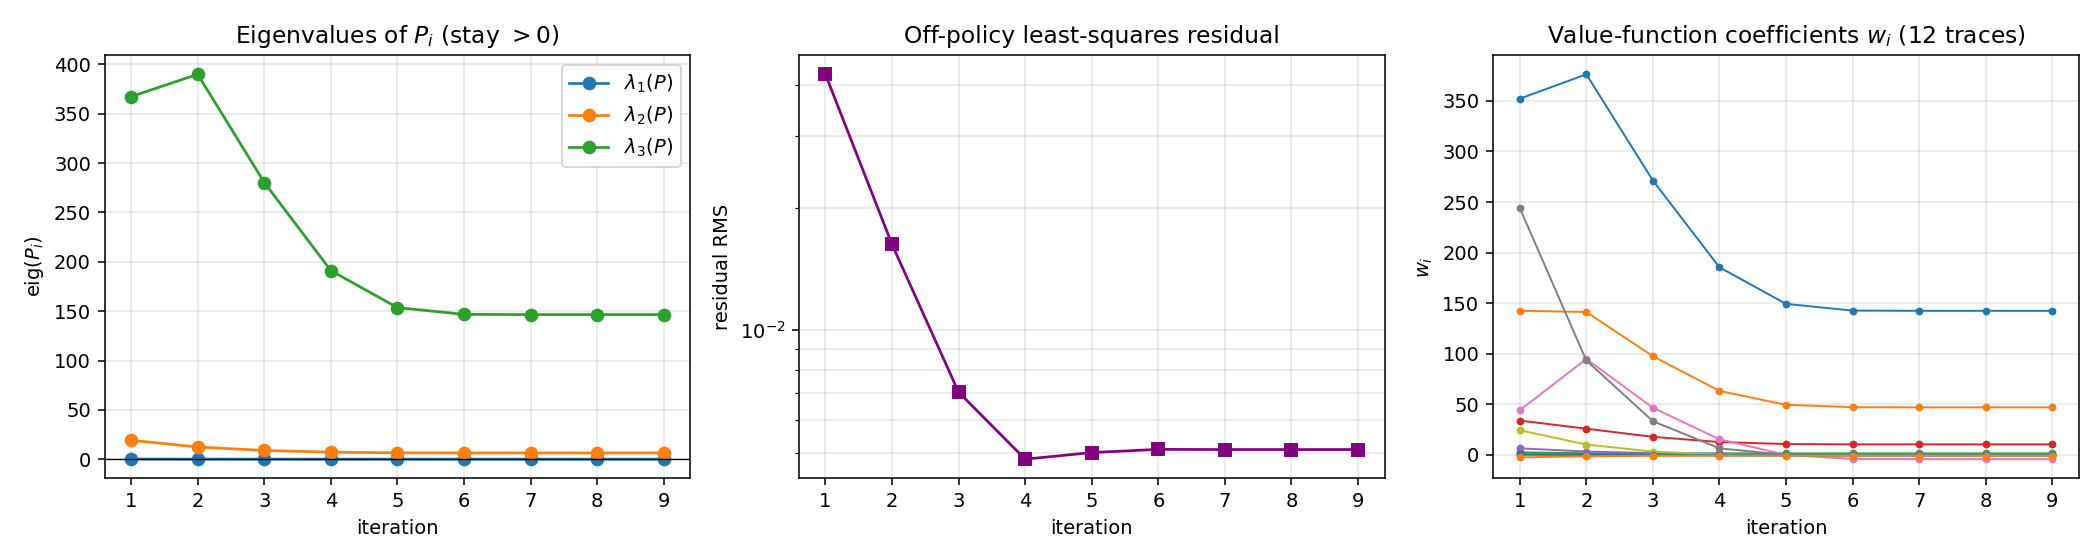
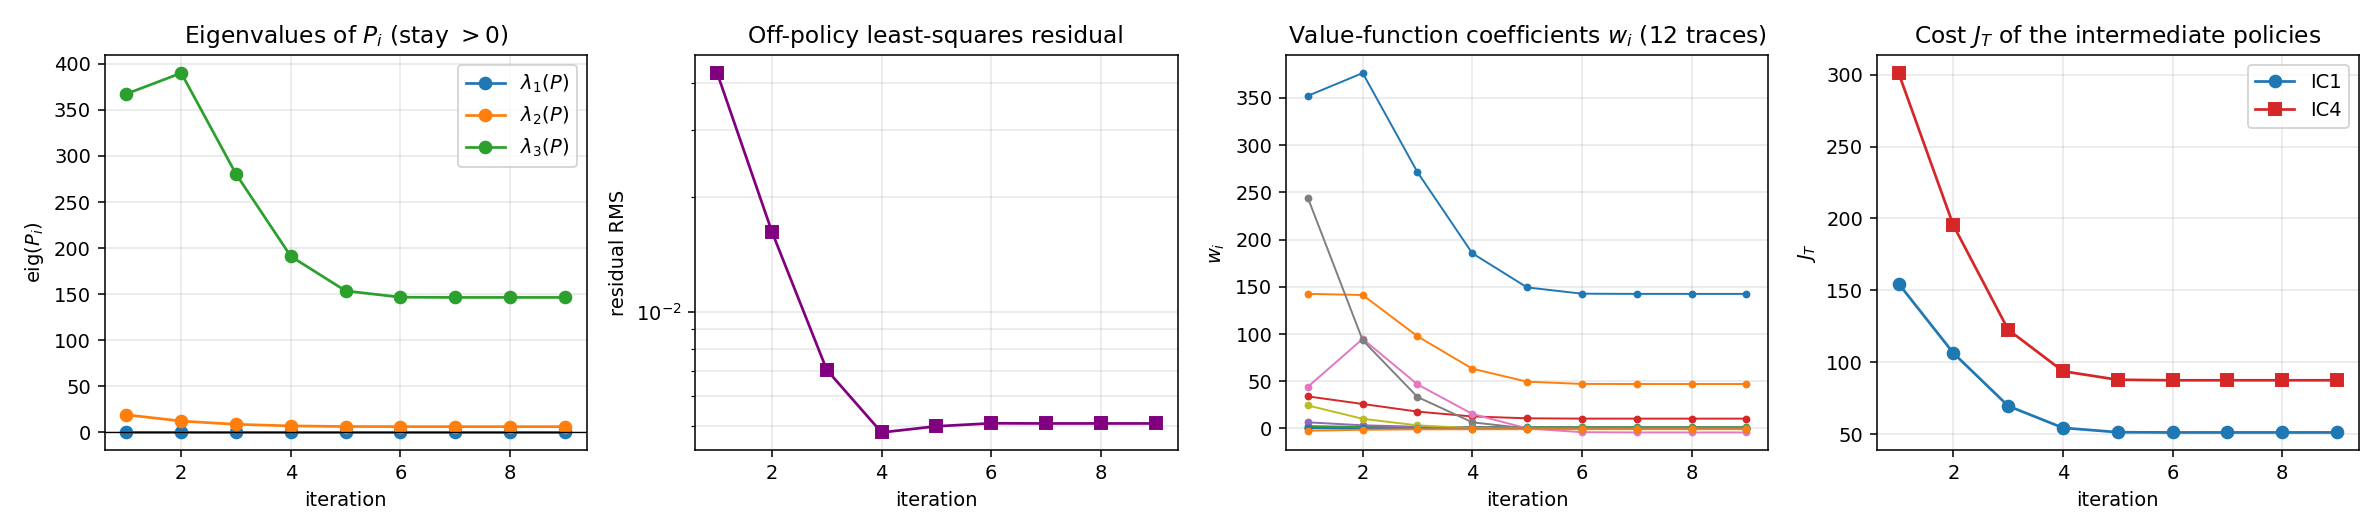
Mock-grader review fixes: eps_bar quantified, J_T-per-iteration panel, consistency and wording corrections; report 35 pp

diff --git a/Py_Code/adp_offpolicy.py b/Py_Code/adp_offpolicy.py
@@ -128,6 +128,9 @@ def policy_iteration(X, U, dt, verbose=True):
         # regressor A_j and target b_j for this iteration (reuse same data)
         A = dPhi - win_trapz(Z * (U - u_cur)[:, None])          # (n_win, N_W)
         b = -win_trapz(xQx + R * u_cur ** 2)                    # (n_win,)
+        if k == 0 and verbose:
+            print(f"  LS regressor: {A.shape[0]}x{A.shape[1]}, rank {np.linalg.matrix_rank(A)}, "
+                  f"cond {np.linalg.cond(A):.2e}")
         w_new, *_ = np.linalg.lstsq(A, b, rcond=None)
         res = np.linalg.norm(A @ w_new - b) / np.sqrt(n_win)
         delta = np.linalg.norm(w_new - w)
@@ -203,11 +206,14 @@ if __name__ == "__main__":
     ax.set_xlim(0, min(6, t[-1]))
     fig.tight_layout(); fig.savefig(f"{OUT}/data.png", dpi=140); plt.close()
 
-    # policy-iteration convergence: P eigenvalues, residual, coefficient evolution
+    # policy-iteration convergence: P eigenvalues, residual, coefficients, cost
     Peig = np.array(hist["P_eig"]); res = np.array(hist["res"])
     Wev = np.array(hist["w"])                      # (iterations, 12)
     it = np.arange(1, len(Wev) + 1)
-    fig, ax = plt.subplots(1, 3, figsize=(15, 4))
+    Jit = {}                                       # J_T of each intermediate policy
+    for j in (0, 3):                               # IC1 and IC4
+        Jit[j] = [rollout(ics[j], np.asarray(wi), use_policy=True)[3] for wi in hist["w"]]
+    fig, ax = plt.subplots(1, 4, figsize=(17, 3.8))
     for i in range(3):
         ax[0].plot(it, Peig[:, i], "o-", lw=1.4, label=f"$\\lambda_{i+1}(P)$")
     ax[0].axhline(0, color="k", lw=.7)
@@ -220,7 +226,12 @@ if __name__ == "__main__":
         ax[2].plot(it, Wev[:, i], "o-", lw=1.0, ms=3)
     ax[2].set_title(f"Value-function coefficients $w_i$ ({Wev.shape[1]} traces)")
     ax[2].set_xlabel("iteration"); ax[2].set_ylabel("$w_i$"); ax[2].grid(alpha=.3)
+    ax[3].plot(it, Jit[0], "o-", color="tab:blue", lw=1.4, label="IC1")
+    ax[3].plot(it, Jit[3], "s-", color="tab:red", lw=1.4, label="IC4")
+    ax[3].set_title("Cost $J_T$ of the intermediate policies")
+    ax[3].set_xlabel("iteration"); ax[3].set_ylabel("$J_T$"); ax[3].legend(); ax[3].grid(alpha=.3)
     fig.tight_layout(); fig.savefig(f"{OUT}/convergence.png", dpi=140); plt.close()
+    print("J_T per iteration (IC1):", np.round(Jit[0], 2))
 
     # B7: learned vs initial policy from several ICs -- ALL states + input
     sel = [0, 1, 3]                                # IC1, IC2, IC4 (IC4 = the Part-4 demo IC)

diff --git a/Pico_Code/pico_control.py b/Pico_Code/pico_control.py
@@ -69,8 +69,8 @@ class RBFController:
         grid: exp(-(d0^2+d1^2+d2^2)) over the 6x6x6 Cartesian product equals the
         outer product of three per-axis 6-element Gaussians.  All exp() calls act
         on grid-length vectors; only two broadcast multiplications touch the full
-        216-element vector -- on the RP2040 this cuts the update from ~6 ms to
-        ~2.5 ms.  The (g0*g1)*g2 broadcast order reproduces the 'ij' ravel order
+        216-element vector -- on the RP2040 @ 200 MHz this brings the full RBF
+        update to the measured ~2.9 ms.  The (g0*g1)*g2 broadcast order reproduces the 'ij' ravel order
         of the flat center list, so W indexing is unchanged."""
         d0 = x[0] * self.m0 - self.A0
         d1 = x[1] * self.m1 - self.A1

diff --git a/Pico_Code/pico_experiment.py b/Pico_Code/pico_experiment.py
@@ -22,7 +22,7 @@ timing histogram from real on-chip data.
 
 Usage from the host:
 
-    mpremote exec "import pico_experiment; pico_experiment.run('rbf', 20.0)"
+    mpremote exec "import pico_experiment; pico_experiment.run('rbf', 30.0)"
     mpremote exec "import pico_experiment; pico_experiment.run('adp',  8.0)"
 
 Each call shuts the timer down and releases the second core, so both runs can be

diff --git a/Pico_Code/plant_core1.py b/Pico_Code/plant_core1.py
@@ -1,6 +1,6 @@
 """
 Secondary-core (core 1) task: real-time simulation of the continuous nonlinear
-process.  One RK4 integration step is performed per hardware-timer tick (period dt),
+process.  One RK4 integration step is performed per paced-loop step (period dt),
 with the controller's input u held constant between controller updates (ZOH).
 
 f(x) is evaluated HERE only -- it never appears in the controller code, honouring

diff --git a/Py_Code/rbf_adaptive.py b/Py_Code/rbf_adaptive.py
@@ -151,7 +151,7 @@ def make_figures(da, dn, outdir="images/part2"):
     ax.plot(da["t"], da["Dtrue"], "k-", lw=1.6, label=r"true drift $D(x)$")
     ax.plot(da["t"], da["Dhat"], "b--", lw=1.3, label=r"RBF estimate $\widehat{D}(x)=\widehat{W}^\top\phi$")
     ax.set_title("Online RBF approximation of the unknown drift")
-    ax.set_xlabel("t [s]"); ax.set_ylabel("drift"); ax.legend(); ax.grid(alpha=.3)
+    ax.set_xlabel("t [s]"); ax.set_ylabel(r"drift $D$ [m/s$^3$]"); ax.legend(); ax.grid(alpha=.3)
     fig.tight_layout(); fig.savefig(f"{outdir}/rbf_drift.png", dpi=140); plt.close()
 
     # weight norm

diff --git a/README.md b/README.md
@@ -20,9 +20,9 @@ with the process simulated in real time on the secondary core.
 | Quantity | On chip | Computer reference |
 |---|---|---|
 | RBF steady-state RMS tracking error | **9.96×10⁻³ m** | 9.98×10⁻³ m (two-core emulation) |
-| ADP response vs. fine desktop rollout | within **1.6×10⁻³ m** | — |
-| RBF controller update (avg / max) | **2.92 / 2.99 ms** | 19 µs (NumPy proxy) |
-| ADP controller update (avg / max) | **0.56 / 0.61 ms** | 2.4 µs (NumPy proxy) |
+| ADP response vs. fine desktop rollout | **≈1.6×10⁻³ m** at worst | — |
+| RBF controller update (avg / max) | **2.92 / 2.99 ms** | ≈17 µs (NumPy proxy) |
+| ADP controller update (avg / max) | **0.56 / 0.61 ms** | ≈3 µs (NumPy proxy) |
 | Real-time constraint (Ts = 10 ms) | **met, ≈3× margin** (worst tick incl. GC: 8.4 ms) | |
 
 ![On-chip RBF tracking](Py_Code/images/part4/pico_hw_rbf.png)
@@ -49,8 +49,7 @@ with the process simulated in real time on the secondary core.
     ├── pico_experiment.py  bounded, logged hardware experiment -> CSV  [runs on Pico]
     ├── plot_hw_results.py  on-chip CSV -> report hardware figures (desktop)
     ├── make_arch_figure.py architecture block diagram (desktop)
-    ├── desktop_sim.py      off-board validation of the two-core scheme + timing
-    └── board_backup/       files found on the course board before flashing
+    └── desktop_sim.py      off-board validation of the two-core scheme + timing
 ```
 
 ## Reproduce the results